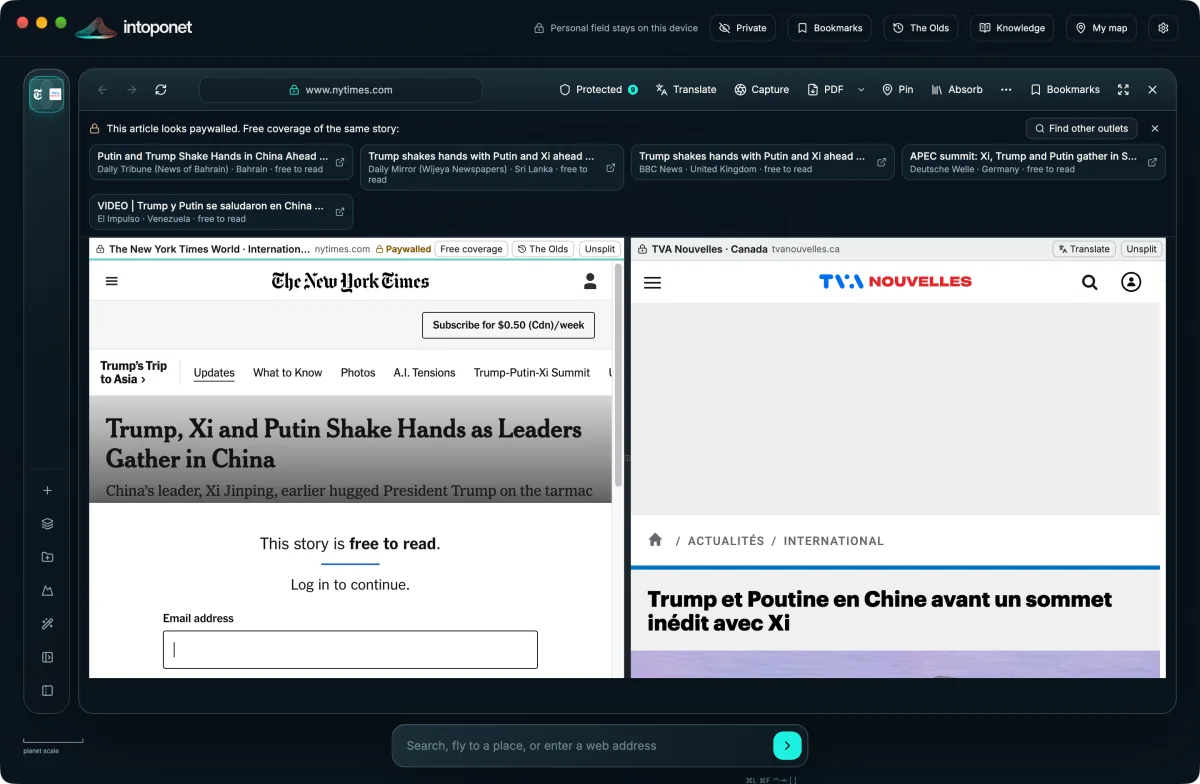
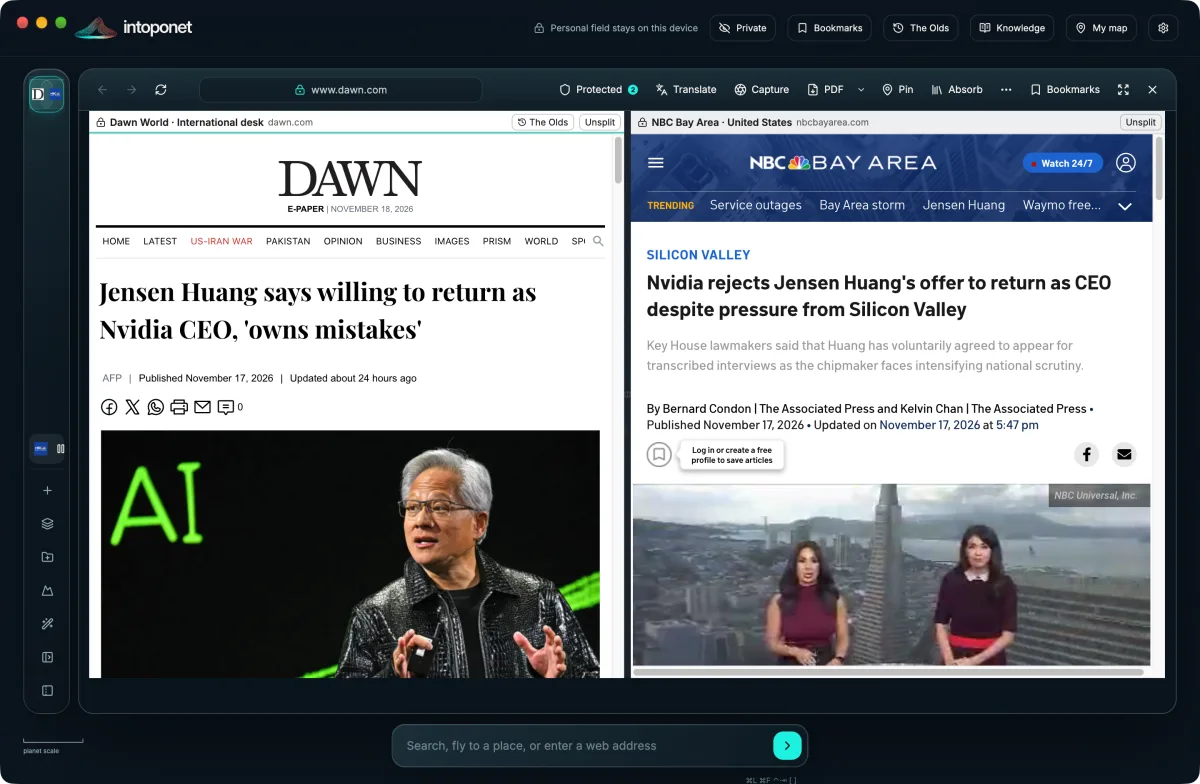
The Compare screenshot shows two outlets with nothing covering either article

diff --git a/website/index.html b/website/index.html
@@ -64,7 +64,7 @@
   <div class="chapter-head"><h2 id="understand-title">Understand the story<br><em>behind the headline.</em></h2><p>How a story got here, how two outlets tell it, and what a page says in your language.</p></div>
   <div class="capture-pair">
     <figure class="capture"><img src="/assets/app/0126/olds-1200.webp" srcset="/assets/app/0126/olds-1200.webp 1200w, /assets/app/0126/olds-2400.webp 2400w" sizes="(max-width: 900px) 94vw, 43vw" alt="The Olds open for the 2026 state visit by Vladimir Putin to China: a path from the chapter “Xi Jinping and the fifth generation (2012–present)” to today’s headline, then a dated list of how we got here, from 2000 to 19 May 2026, credited to Wikipedia and Wikidata." width="2880" height="1880" loading="lazy" decoding="async"><figcaption><strong>The Olds.</strong> A headline from the same day, walked back through dated, sourced events.</figcaption></figure>
-    <figure class="capture"><img src="/assets/app/0126/compare-1200.webp" srcset="/assets/app/0126/compare-1200.webp 1200w, /assets/app/0126/compare-2400.webp 2400w" sizes="(max-width: 900px) 94vw, 43vw" alt="Two articles on the leaders’ meeting in China side by side in two columns: The New York Times on the left and TVA Nouvelles from Canada on the right, in French, each under a header naming its outlet. A bar above says the first article looks paywalled and offers free coverage of the same story from outlets in Bahrain, Sri Lanka, the United Kingdom, Germany and Venezuela." width="2880" height="1880" loading="lazy" decoding="async"><figcaption><strong>Compare, and free coverage.</strong> Two outlets on one story. When one is behind a paywall, intoponet lists others that are free to read.</figcaption></figure>
+    <figure class="capture"><img src="/assets/app/0126/compare-1200.webp" srcset="/assets/app/0126/compare-1200.webp 1200w, /assets/app/0126/compare-2400.webp 2400w" sizes="(max-width: 900px) 94vw, 43vw" alt="Two articles on Nvidia and Jensen Huang side by side in two columns: Dawn’s international desk on the left, headlined “Jensen Huang says willing to return as Nvidia CEO, ‘owns mistakes’”, and NBC Bay Area from the United States on the right, headlined “Nvidia rejects Jensen Huang’s offer to return as CEO despite pressure from Silicon Valley”, each under a header naming its outlet and where it is from." width="2880" height="1880" loading="lazy" decoding="async"><figcaption><strong>Compare.</strong> Two outlets from two countries on one story, each with its own headline.</figcaption></figure>
   </div>
   <ul class="feature-list">
     <li><h3>The Olds</h3><p>Walks back through how a story got here: dated events from Wikipedia, each linked to its source. Read it as a story, a timeline or a list.</p></li>
